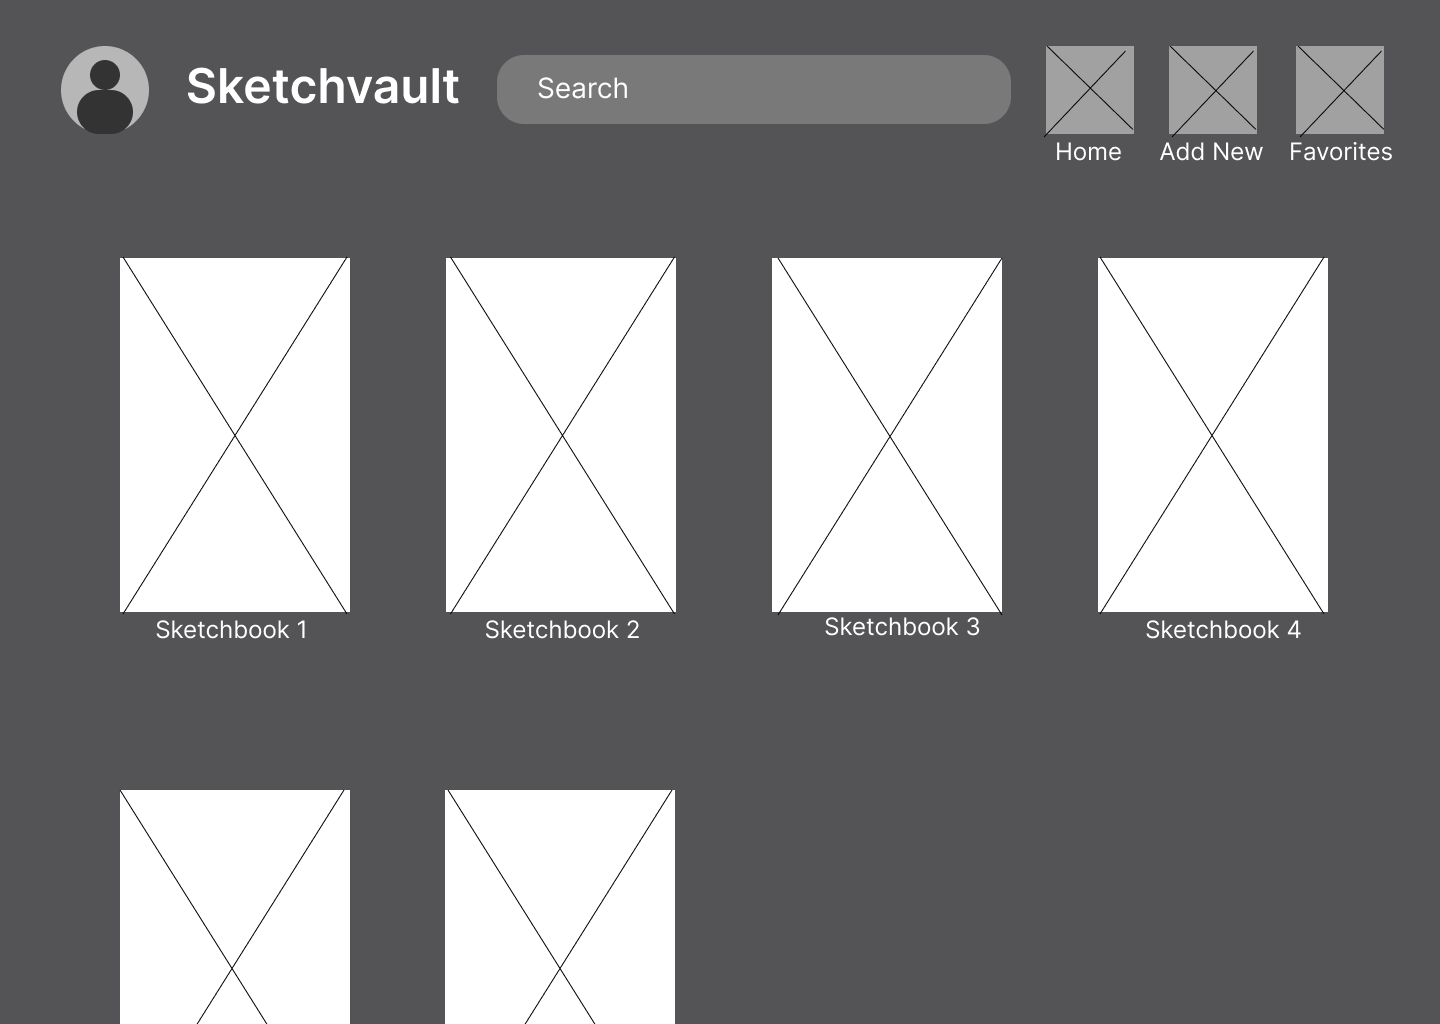
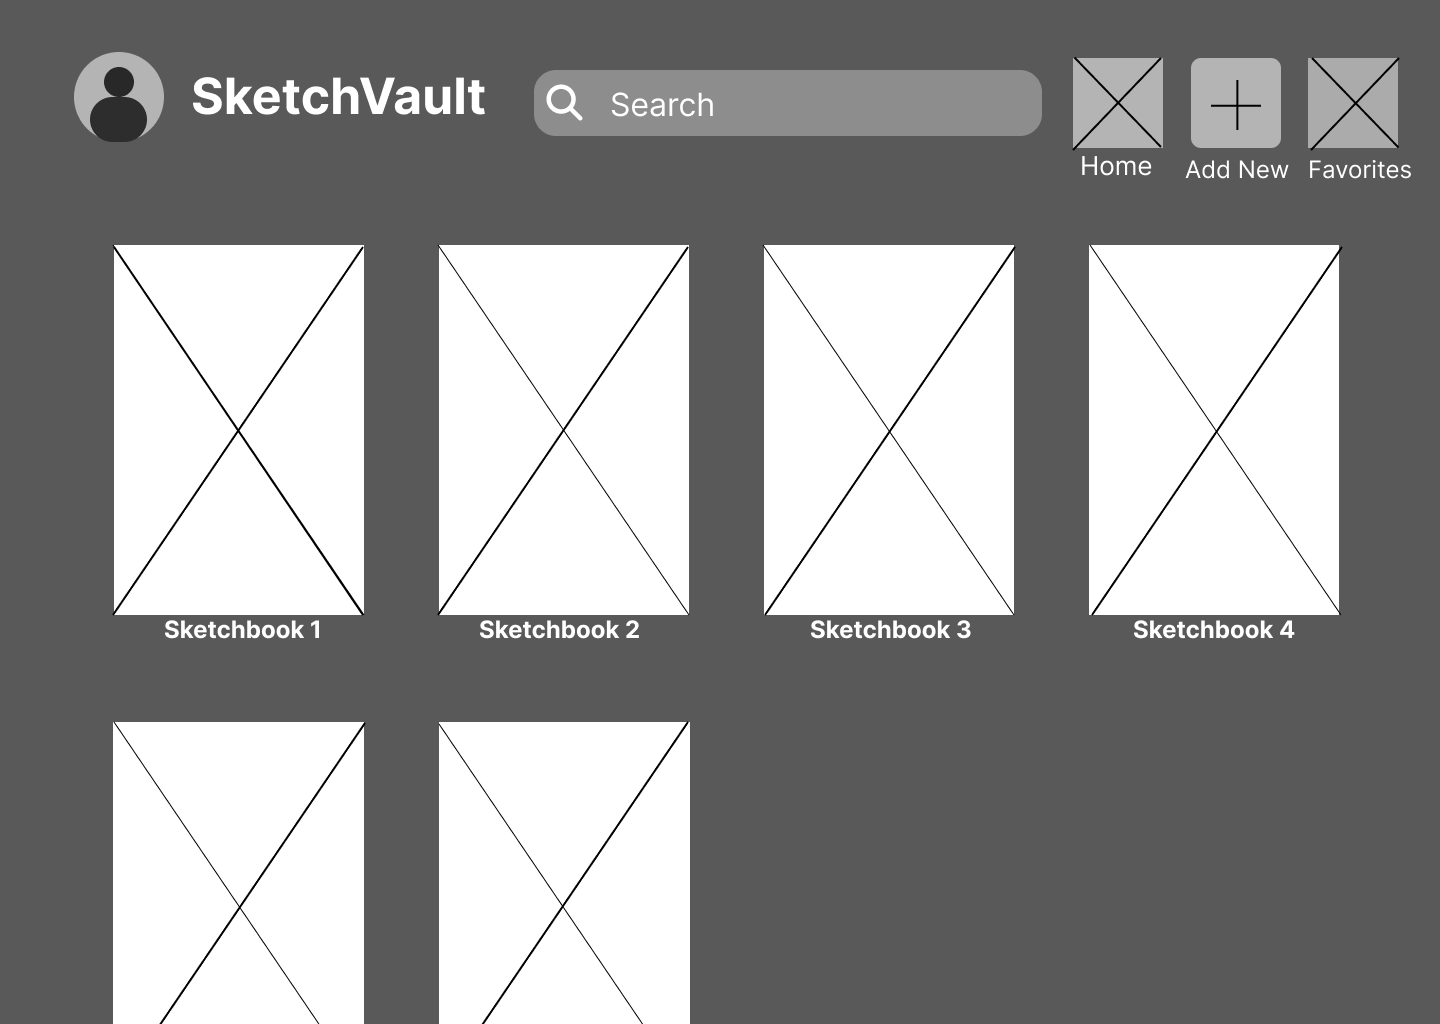
wireframes

diff --git a/index.html b/index.html
@@ -124,8 +124,8 @@
                 <section class="modal-col visual-col">
                     <h3>VISUAL DEVELOPMENT</h3>
         
-                    <div class="main-preview-box" onclick="openLightboxGroup(['images/Sketchvault_card.jpg'], 0, 'UI/UX Design: Figma (Desktop & Mobile Prototypes)')">
-                        <img src="images/Sketchvault_card.jpg" alt="SKETCHVAULT UI/UX Design">
+                    <div class="main-preview-box" onclick="openLightboxGroup(['MainPageUIUX.png'], 0, 'UI/UX Design: Figma (Desktop & Mobile Prototypes)')">
+                        <img src="MainPageUIUX.png" alt="SKETCHVAULT UI/UX Design">
                         <p class="caption">UI/UX Design: <br><span>Figma (Desktop & Mobile Prototypes)</span></p>
                     </div>
 
@@ -138,8 +138,8 @@
                             <img src="Login Wireframe.png" alt="Wireframe Iteration 2">
                             <p>User Authentication (Login & Sign Up)</p>
                         </div>
-                        <div class="thumb-box" onclick="openLightboxGroup(['Mobile Wireframe.png', 'images/Sketchvault_card.jpg'], 0, 'Mobile App Wireframes')">
-                            <img src="images/Sketchvault_card.jpg" alt="Wireframe Iteration 3">
+                        <div class="thumb-box" onclick="openLightboxGroup(['MobileMain Wireframe.png', 'MobileFeature Wireframe.png'], 0, 'Mobile App Wireframes')">
+                            <img src="MobileMain Wireframe.png" alt="Wireframe Iteration 3">
                             <p>Mobile App Wireframes</p>
                         </div>
                     </div>

diff --git a/styles(1).css b/styles(1).css
@@ -219,7 +219,7 @@ section {
 
 /* =========== Projects =========== */
 .projects-section {
-    padding-top: 70px;
+    padding-top: 30px;
     padding-bottom: 80px;
     text-align: center;
     scroll-margin-top: 80px; 
@@ -239,14 +239,14 @@ section {
     margin: 0 auto;
 }
 .project-card {
-    padding: 1.2rem;
+    padding: 1.4rem;
     padding-bottom: 2rem;
     height: auto;
     display: flex;
     flex-direction: column;
     height: 90%;
     width: 82%;   
-    max-width: 450px; 
+    max-width: 350px; 
     margin: 0 auto;
     background: rgba(255, 255, 255, 0.02);
     backdrop-filter: blur(25px) saturate(160%);
@@ -321,7 +321,7 @@ section {
 
 /* =========== About me =========== */
 .about-section {
-    padding: 130px 20px;
+    padding: 120px 20px;
     display: flex;
     justify-content: center;
 }
@@ -371,7 +371,7 @@ section {
 
 /* =========== Contact me =========== */ 
 .contact-section {
-    padding-top: 30px; 
+    padding-top: 20px; 
     padding-right: 20px; 
     padding-bottom: 50px; 
     padding-left: 20px; 
